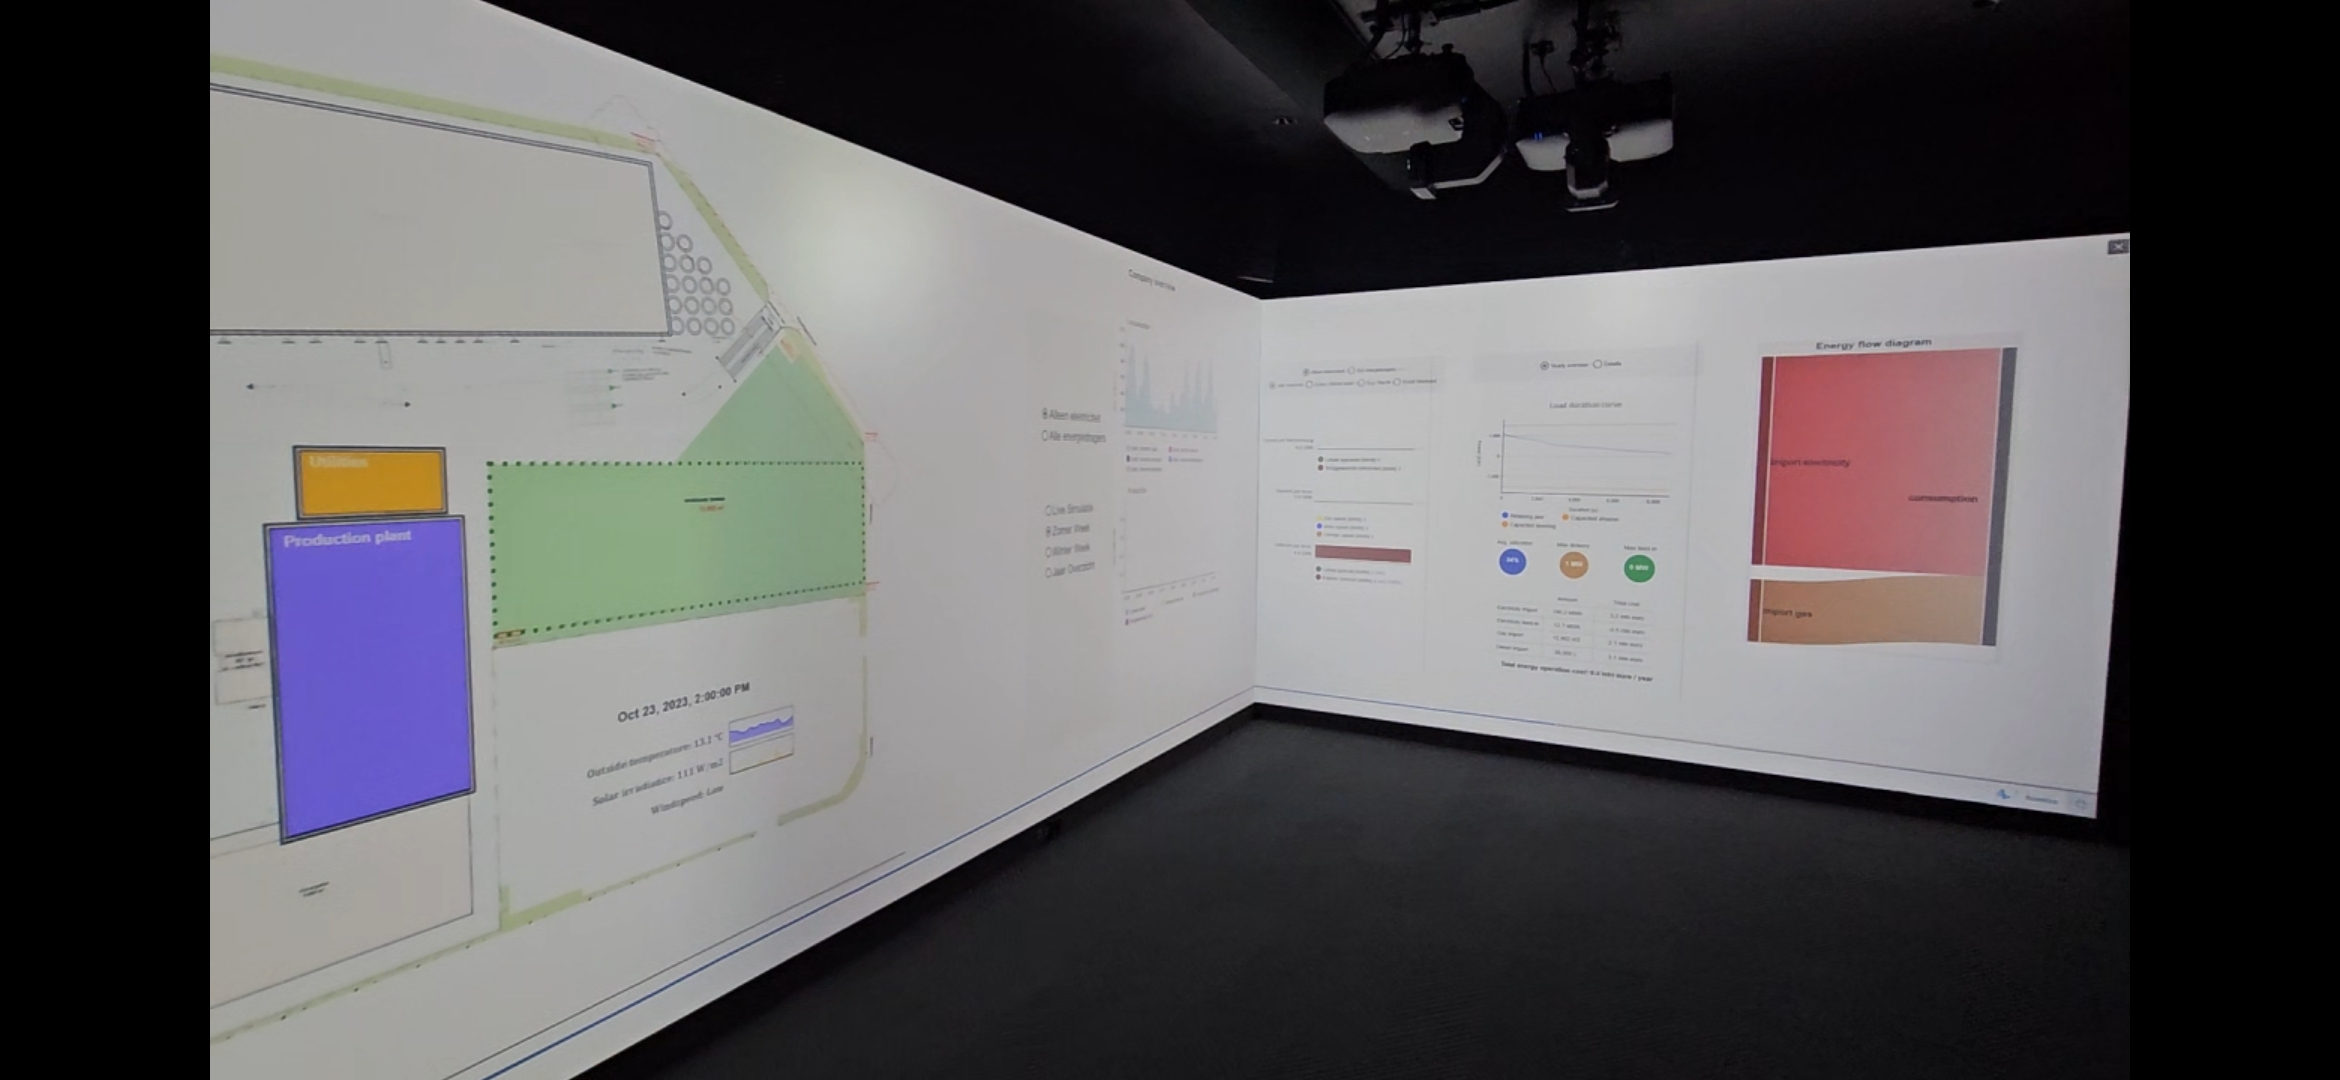
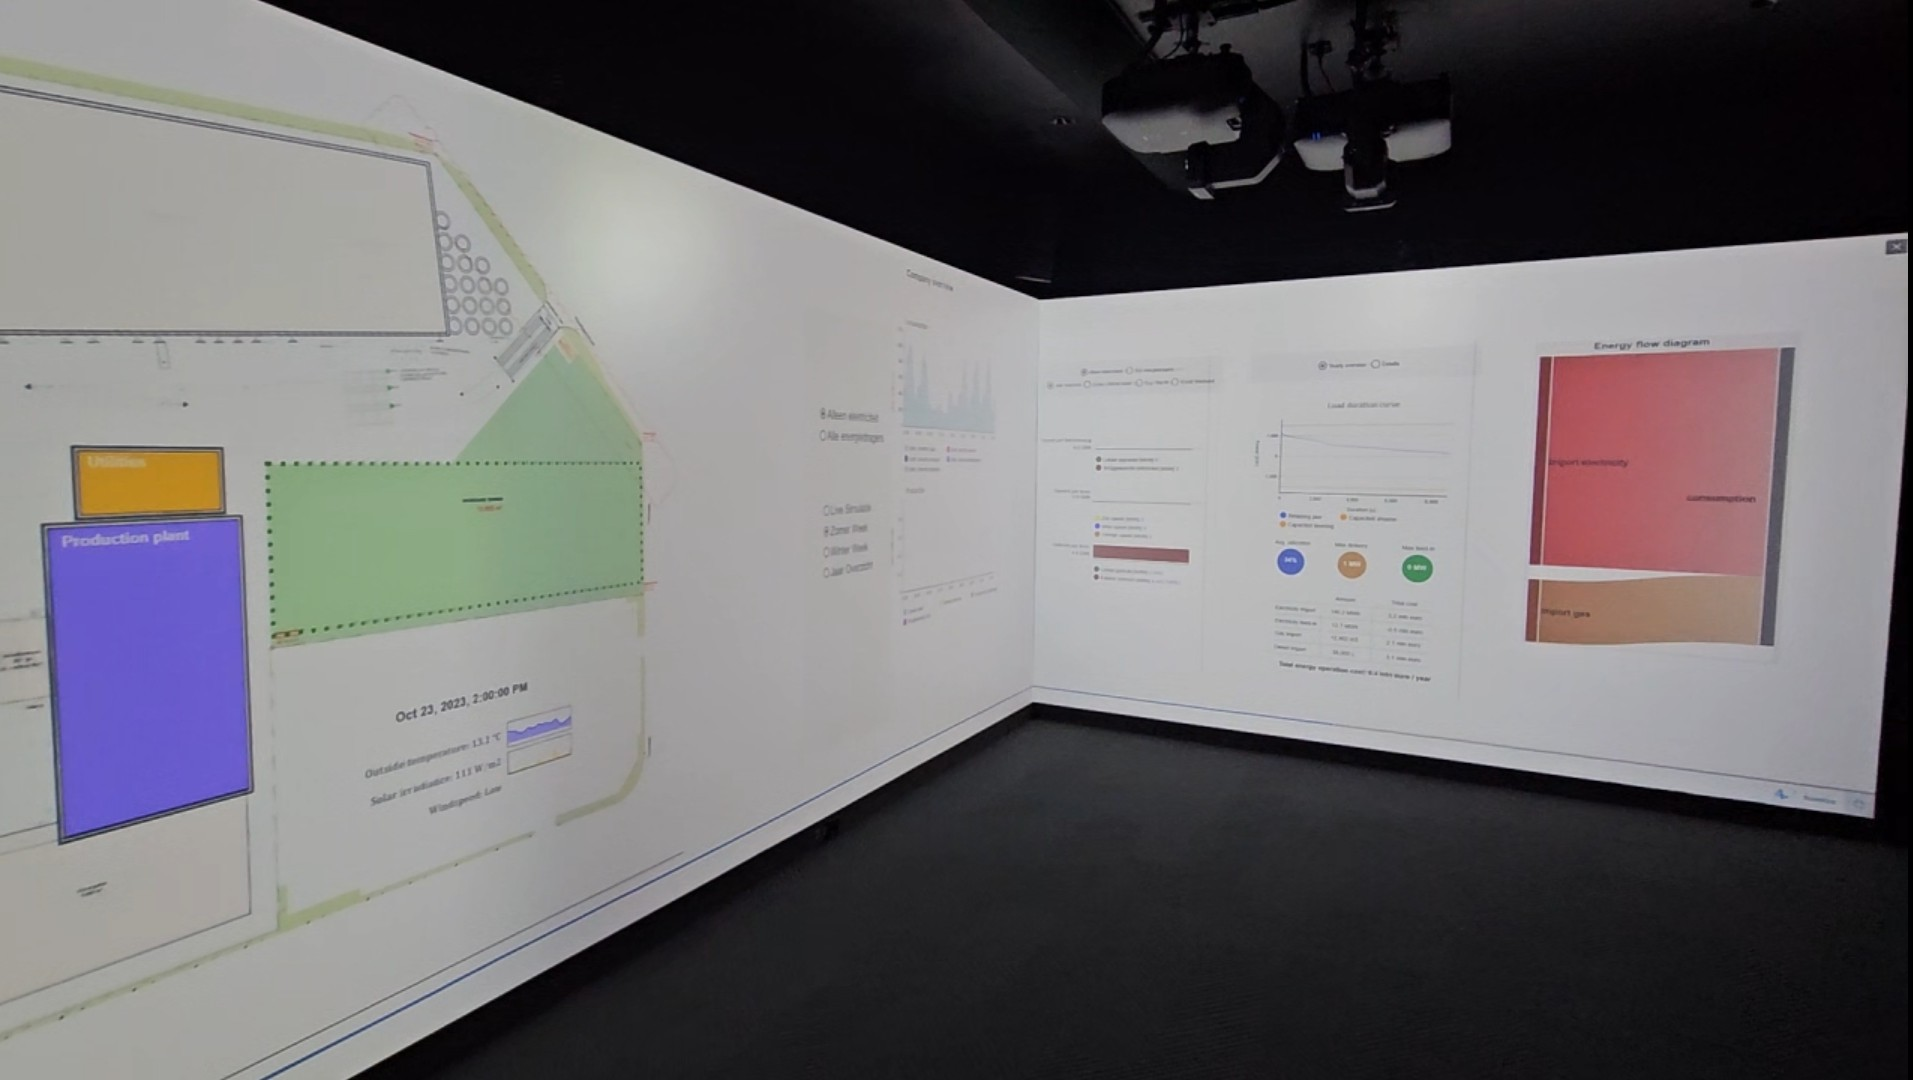
immersive room picture for Cognizant model thumbnail
- also removes black bars

closes #450

diff --git a/site/src/jsMain/kotlin/com/zenmo/web/zenmo/domains/lux/core/model/subdomain/PublicSubdomainTwinModel.kt b/site/src/jsMain/kotlin/com/zenmo/web/zenmo/domains/lux/core/model/subdomain/PublicSubdomainTwinModel.kt
@@ -90,7 +90,7 @@ val cognizant = PublicSubdomainTwinModel(
     subdomain = "cognizant",
     subdomainComponent = { Cognizant() },
     label = LocalizedText(en = "Cognizant", nl = "Cognizant"),
-    imageUrl = "/lux/images/model_thumbnails/ModelThumbnailCognizant.png",
+    imageUrl = "/lux/images/cognizant-immersive-room.jpg",
     modelId = Uuid.parse("7cfc3e4a-608c-4e2c-a834-4d290174ee9e"),
     applicationArea = LuxApplicationArea.LUX_BUSINESS
 )
